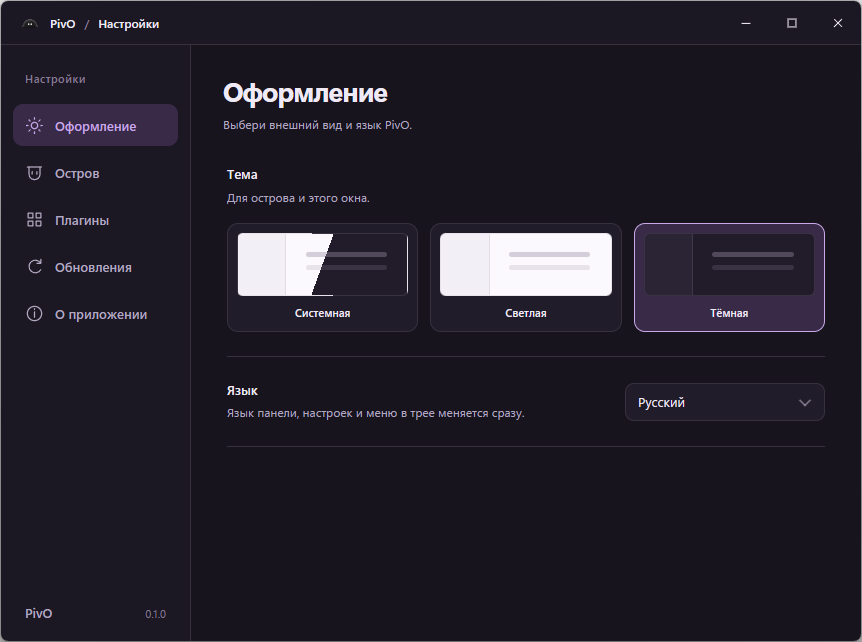
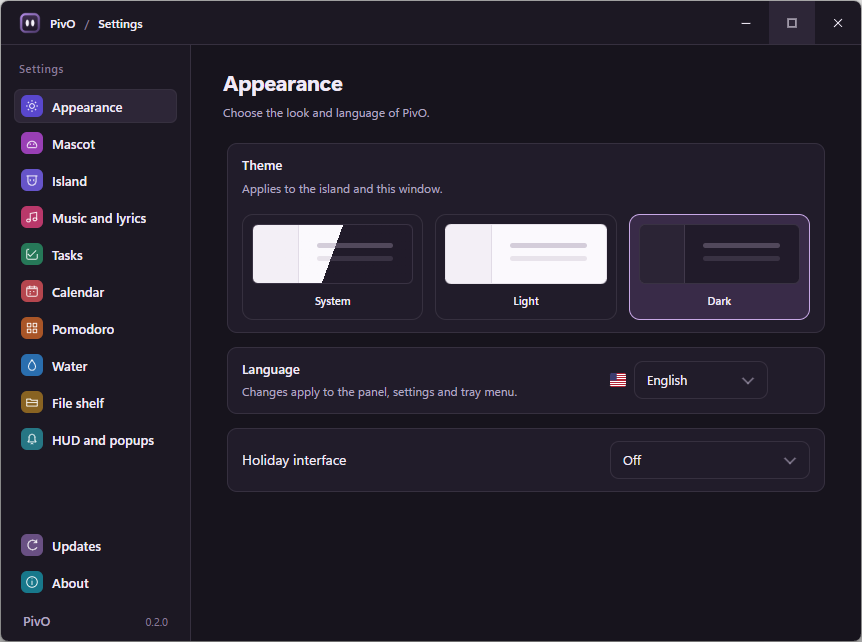
docs: refresh 0.2.0 screenshots and release presentation

diff --git a/README.md b/README.md
@@ -1,42 +1,98 @@
 # PivO
 
-A small companion at the top of your screen.
+A desktop companion that lives at the top of your screen, with its own mascot, music controls and everyday widgets.
 
-PivO is a desktop companion built with Tauri 2, Rust and TypeScript, with its own mascot and visual identity. Windows comes first; other platforms can follow.
+[Download PivO 0.2.0 for Windows x64](https://github.com/RedGry/pivo/releases/download/v0.2.0/PivO_0.2.0_x64-setup.exe) · [What's new](https://github.com/RedGry/pivo/releases/tag/v0.2.0) · [Full changelog](CHANGELOG.md)
 
-[Download PivO v0.2.0 for Windows](https://github.com/RedGry/pivo/releases/download/v0.2.0/PivO_0.2.0_x64-setup.exe) · [Release notes](https://github.com/RedGry/pivo/releases/tag/v0.2.0)
-
-<p align="center">
-  <img src="assets/mascot.png" alt="The original PivO mascot" width="240" />
-</p>
+PivO starts as a compact pair of eyes or a thin Strip. Hover over its deliberate reveal target to open the island, use a widget, then move away to fold it. The companion stays on the selected monitor without reserving desktop space or taking keyboard focus during ordinary interaction. Settings opens as a separate window when requested.
 
 ## Screenshots
 
-Actual Windows application captures, shown in Russian. PivO also includes English.
+Actual PivO 0.2.0 Windows captures, taken through the separate PivO debug MCP. These images show the running application, rather than a mockup. The captures use English and Dark theme. The application supports English and Russian.
 
-**Expanded island** with the original mascot, clock and Pomodoro widget:
+**Expanded island** — the mascot, clock and a built-in widget:
 
-<img src="docs/images/island-expanded.png" alt="Expanded PivO island with mascot, clock and Pomodoro controls" width="560" />
+<img src="docs/images/island-expanded.png" alt="PivO 0.2.0 expanded island with its current mascot, clock and widget navigation" width="880" />
 
-**Compact Strip** keeps the desktop available:
+<details>
+<summary>Compact Eyes and Strip</summary>
 
-<img src="docs/images/island-strip.png" alt="Compact PivO Strip showing the clock and timer progress" width="560" />
+**Compact Eyes** — the companion at rest:
 
-**Settings** opens in a separate window:
+<img src="docs/images/island-eyes.png" alt="PivO 0.2.0 compact Eyes" width="560" />
 
-<img src="docs/images/settings-appearance.png" alt="PivO appearance settings with theme and language selection" width="760" />
+**Compact Strip** — the clock and compact eyes at the screen edge:
+
+<img src="docs/images/island-strip.png" alt="PivO 0.2.0 compact Strip" width="560" />
+
+</details>
+
+**Appearance settings** — themes, language and seasonal presentation:
+
+<img src="docs/images/settings-appearance.png" alt="PivO 0.2.0 Appearance settings with Dark theme and English selected" width="760" />
+
+<details>
+<summary>Mascot customization and Calendar</summary>
+
+**Mascot** — clothing previews, size and gesture controls:
+
+<img src="docs/images/settings-mascot.png" alt="PivO 0.2.0 Mascot settings with clothing previews" width="760" />
+
+**Calendar** — month navigation, holiday icons and country calendars:
+
+<img src="docs/images/settings-calendar.png" alt="PivO 0.2.0 Calendar settings showing November and holiday markers" width="760" />
+
+</details>
 
 Capture details and asset terms are recorded in [image provenance](docs/images/README.md).
 
-## First milestone
+## What's new in 0.2.0
 
-An expandable top panel, our mascot and a clock. Music, a calendar, system stats and AI agent status can follow one step at a time.
+The island now includes seven built-in widgets, a vector mascot with seasonal outfits, and a redesigned Settings window. Music gains Windows player controls and a dedicated lyrics view; personal widgets bring tasks, calendar events, water tracking and file shortcuts into the same panel.
 
-**Status:** the Full HD usability candidate reduces Expanded to 480 x 144 logical pixels, shortens reveal dwell and provides seven built-in widgets. See [validation](docs/VALIDATION.md) for actual checks and runtime limits. The screenshots above show the earlier build.
+| Widget | What it does |
+| --- | --- |
+| Music and lyrics | Shows the current Windows media session, artwork, playback controls and seeking. Displays synchronized or plain lyrics, with local import and configurable LRCLIB lookup. |
+| Tasks | Keeps tasks, deadlines and completion state, with direct island actions, ordering and optional reminders. |
+| Calendar | Shows month and week views, personal events, task dates and configurable holiday calendars. |
+| Pomodoro | Keeps focus and break timers, configurable durations and the progress ring, including a running timer across restarts. |
+| Water | Tracks daily intake, serving size and target, with undo, today's intake log and optional reminders. |
+| File shelf | Keeps shortcuts to selected files, with open, reveal and remove actions. Removing a shortcut preserves the original file. |
+| HUD and popups | Shows supported volume, brightness, input-language, keyboard, power and connectivity readings, with configurable notices. |
+
+Navigate with the page indicators, previous/next controls or the mouse wheel over the expanded content. Choose which widgets are enabled in their Settings pages. See [widget behavior and Windows support](docs/PLUGINS.md) for provider requirements and limitations.
+
+The mascot has size and motion controls, idle expressions, cursor gaze and holiday outfits. The interface supports Dark, Light and System themes, shared English/Russian localization, and a visual display selector. Panel motion is reversible and respects reduced-motion settings.
+
+Read the [0.2.0 release notes](https://github.com/RedGry/pivo/releases/tag/v0.2.0) for the complete feature list. Actual validation results and remaining native-test limits are recorded in [VALIDATION.md](docs/VALIDATION.md).
+
+## Install
+
+1. Download [PivO_0.2.0_x64-setup.exe](https://github.com/RedGry/pivo/releases/download/v0.2.0/PivO_0.2.0_x64-setup.exe).
+2. Run the installer. PivO installs for your Windows user.
+3. Launch PivO and open Settings to choose a monitor, theme, language and widgets. Autostart is available in the tray.
+
+Microsoft Edge WebView2 Runtime is required. The installer handles the normal runtime prerequisite. PivO is currently a Windows x64 prototype; other platforms are not included in this release.
+
+The updater signature protects PivO updates. It is separate from Windows Authenticode signing, so Windows may still show a SmartScreen prompt for the installer.
+
+## Update
+
+Open **Settings → Updates → Check now**, then use the island's update action when a new version is offered. Automatic checks are optional; installing an update always requires a deliberate action. The tray also offers a manual update check.
+
+Portable copies need a first installation with the setup executable before using installed updates. See [update setup and acceptance](docs/UPDATES.md) for signing and release details.
+
+## Desktop behavior
+
+- **Eyes** keeps the compact mascot visible. **Strip** tucks the capsule partly above the screen edge while retaining its compact row. **Expanded** reveals the current widget and controls.
+- **Auto** chooses Eyes when the compact footprint is clear and Strip when an ordinary window overlaps it. Compact overrides are available in Settings.
+- The current edge or eye target reveals the island. Returning through the old expanded body does not reopen it. Outside clicks fold it; interior clicks keep it open.
+- Decorative areas pass pointer input through. The selected physical monitor anchors the panel without changing the desktop work area. A disconnected display choice is preserved and recovered on reconnect.
+- **Ctrl+Alt+P** hides or restores the companion. Hidden and reduced-motion states stop unnecessary gestures.
 
 ## Build
 
-Install Rust stable, Visual Studio Build Tools with C++ tools and the Windows SDK, Node.js 24 and the Microsoft Edge WebView2 Runtime.
+PivO uses Tauri 2, Rust and TypeScript, without a frontend UI framework. Install Rust stable, Visual Studio Build Tools with C++ tools and the Windows SDK, Node.js 24 and Microsoft Edge WebView2 Runtime.
 
 ```powershell
 npm --prefix windows/frontend ci
@@ -44,40 +100,16 @@ npm --prefix windows/frontend run build
 cargo build -p pivo-windows --release --locked
 ```
 
-The executable is written to `target/release/pivo.exe`. For development with frontend reload, run `npm --prefix windows/frontend run desktop:dev`.
+The executable is written to `target/release/pivo.exe`. For frontend reload during development, run `npm --prefix windows/frontend run desktop:dev`.
 
-PivO has three presentations: **Strip**, a 24-pixel compact row for future status content; **Eyes**, the compact mascot; and **Expanded**, the full character and clock. Auto mode shows Eyes when the compact area is unobstructed and Strip when another ordinary window overlaps it. Settings can force either compact presentation.
-
-Hover or click the deliberate edge target in Strip, or the eye cluster in Eyes, to expand. Move the pointer outside the expanded island to fold it after a short grace period. Outside clicks also fold it; interior clicks leave it open. Decorative areas pass clicks through without taking keyboard focus. The revealed header aligns the clock, settings and exit controls. Ctrl+Alt+P hides or restores the companion.
-
-Settings includes Appearance, Island, Updates, About and a dedicated sidebar page for each widget. Choose Dark, Light or System theme, language, compact behavior and display. Dark preserves the original default appearance. Display selection follows the primary monitor by default; a missing saved display falls back to primary and resumes its saved placement when reconnected. Each language is a separate [locale file](locales/README.md), discovered on rebuild; English and Russian are included.
-
-The approved static mascot at `assets/mascot.png` is bundled into the frontend. A portable build does not need a separate image file. See [asset provenance](assets/README.md) for its source and usage terms.
-
-## Built-in widgets
-
-Switch between Music and lyrics, Tasks, Calendar, Pomodoro, Water, File shelf and HUD on the island. Enable and configure each widget in its Settings page. Pomodoro keeps its existing saved timer and duration settings. See [widget behavior and Windows support](docs/PLUGINS.md).
-
-Compact Eyes blink, occasionally look curious and follow the cursor. Strip briefly shows the original mascot every 120–180 seconds. Hidden and reduced-motion states stop those gestures. Reveal uses a deliberate hover target. Leaving Expanded starts a reversible fold; returning to the current target reverses it.
-
-The tray offers Autostart, Settings, About PivO, Check for updates and Exit. Autostart applies to the current Windows user.
-
-## Updates and installers
-
-The Windows installer and signed updates use the official Tauri 2 updater. Update checks are available in Settings and the tray. The panel shows a friendly summary; technical error details stay in Settings. Automatic checks are opt-in, and installation always requires an explicit action. See [updates and release setup](docs/UPDATES.md) for signing keys, GitHub configuration, installer builds and the installed-version upgrade acceptance gate.
+Run the application validation with `pwsh -NoProfile -File scripts/validate.ps1`. For isolated interactive Windows testing, see [the test environment](docs/TEST-ENVIRONMENT.md). Native UI acceptance requires an interactive Windows desktop.
 
 ## Contribute
 
-See [CONTRIBUTING.md](CONTRIBUTING.md), the [roadmap](docs/PLAN.md) and [architecture](docs/ARCHITECTURE.md). Keep the design simple, dependencies small and platform boundaries clear.
+See [CONTRIBUTING.md](CONTRIBUTING.md), the [roadmap](docs/PLAN.md) and [architecture](docs/ARCHITECTURE.md). Active development uses `release/0.2.0`; changes reach protected `main` through reviewed pull requests and the required Windows CI check.
 
 ## License
 
-Code is [MIT licensed](LICENSE). The mascot, artwork, sounds and branding have [separate terms](LICENSE-ASSETS.md).
+Code is [MIT licensed](LICENSE). The mascot, artwork, sounds and branding have [separate terms](LICENSE-ASSETS.md); [asset provenance](assets/README.md) records their sources.
 
 Dependency and Rust library notices are in [THIRD_PARTY_NOTICES.md](THIRD_PARTY_NOTICES.md).
-
-The header ring shows timer progress while Pomodoro is selected. Clock/date formatting follows the selected locale.
-
-For isolated interactive Windows testing, see [the test environment](docs/TEST-ENVIRONMENT.md). Containers cover build and model tests; native UI acceptance requires an interactive Windows desktop.
-
-Automatic island sizing uses the selected monitor's logical height, including Windows DPI: at 100% scale, Expanded is 480 x 144 on 1920 x 1080 and 560 x 168 on 2560 x 1440. Intermediate heights interpolate within these bounds. Rendering and native input use the same scale.

diff --git a/CHANGELOG.md b/CHANGELOG.md
@@ -4,12 +4,52 @@
 
 ## 0.2.0 - 2026-11-04
 
-- Add Music with playback controls, artwork, synchronized lyrics and optional LRCLIB lookup.
-- Add personal widgets for tasks, calendar events and water tracking, plus a file shortcut shelf.
-- Add seasonal mascot outfits, holiday artwork and appearance controls.
-- Refine panel geometry, compact expressions, reversible motion and directional widget transitions.
-- Improve display selection, expanded input handling and Settings presentation.
-- Add reproducible Windows Sandbox testing tools and document native input and motion measurements.
+### What's new
+
+#### Music and lyrics
+
+- Control the current Windows media session from the island: play or pause, skip tracks and seek when the player supports those actions.
+- Show track title, artist, album artwork and an artwork-tinted Music background, with playback bars in the header and compact Strip.
+- Open a wider lyrics column with timeline-following synchronized lyrics, highlighted cues and click-to-seek on timed lines. Plain lyrics remain scrollable.
+- Look up lyrics in LRCLIB by default while Music is open, using track metadata. Disable online lookup in Music Settings to keep lyrics local.
+- Import LRC files or paste lyrics for the current track; local lyrics take priority over online results.
+- Add experimental approximate synchronization for plain lyrics using local process audio capture. It requires a separately installed whisper.cpp CLI and multilingual model; neither is bundled.
+
+#### Seven built-in widgets
+
+- Add dedicated pages for Music and lyrics, Tasks, Calendar, Pomodoro, Water, File shelf and HUD. Enable and configure each widget in Settings.
+- Create, reorder and complete Tasks, set deadlines and snooze durations, and enable due reminders while the companion is visible.
+- Browse Calendar by month or week, choose the first weekday, jump to a date and save personal events alongside task dates.
+- Track daily Water intake with a target and serving size, undo or reset today's entries, and optionally schedule reminders within active hours.
+- Keep file shortcuts in the File shelf using the Windows picker, with Open, Reveal, Remove and clear-on-startup controls. Removing a shortcut preserves its source file.
+- Show HUD readings and configurable notices for volume, keyboard language, Caps Lock, battery, Wi-Fi and supported Bluetooth headsets. Brightness readings require a DDC/CI-capable monitor.
+- Preserve the existing Pomodoro timer and saved focus/break durations. Refine its countdown dial and show active timer progress across widget pages.
+- Switch enabled widgets with arrows, page dots or the mouse wheel. Hovering page dots reveals their widget icons, and transitions slide in the direction of navigation.
+
+#### Mascot, clothing and holidays
+
+- Introduce an animated vector presentation of the original PivO mascot, with separate eyes, paws and clothing, plus light and dark body colors.
+- Add widget-specific props and gestures, reveal waves, pointer reactions and a Music dance during playback. Reduced motion takes priority over mascot animation.
+- Add a dedicated Mascot settings page with live previews, size and motion controls, optional hat and scarf, and separate prop and clothing variants.
+- Choose calendar-driven or fixed winter, love, spring, summer, autumn and Halloween appearance themes. Outfit and interface decoration can be configured independently or switched off.
+- Add occasion outfits, illustrated holiday icons, themed Settings scenery and navigation glyphs, and a width-aware winter garland.
+- Show recurring Russian and international holidays and movable observances. Filter country calendars, add custom country calendars and save recurring dates.
+
+#### Presentation, Settings and native input
+
+- Refine the island's compact and expanded proportions, monitor-aware scaling, mascot placement, artwork tint and transparent rounded outline.
+- Improve elapsed-time reveal and fold motion, preserve continuity during early reversals, and animate lyric width together with content. Idle or hidden expressions stop scheduling frames.
+- Add compact sleep/wake expressions, finite blinks and winks, plus playback and charging indicators where applicable.
+- Reorganize Settings into widget pages and grouped controls, improve narrow and maximized layouts, add a visual display selector and refresh the Windows application icon.
+- Keep controls aligned with the visible island and correct timed-lyric click targets at different display scales. The expanded island receives clicks without taking keyboard focus, while input outside its outline remains available to other applications.
+
+### Install
+
+1. Download [PivO_0.2.0_x64-setup.exe](https://github.com/RedGry/pivo/releases/download/v0.2.0/PivO_0.2.0_x64-setup.exe) and run it for your Windows user. Microsoft Edge WebView2 Runtime is required.
+2. Existing installed copies can use **Settings > Updates > Check now**, followed by the island's update action. Automatic checks remain optional.
+3. Portable copies need a first installation with the setup executable to use installed updates.
+
+Updater signatures use the existing PivO key and are separate from Windows Authenticode signing. See the [release notes](https://github.com/RedGry/pivo/releases/tag/v0.2.0) and [validation record](docs/VALIDATION.md) for acceptance results and limitations.
 
 ## 0.1.0 - 2026-10-30
 

diff --git a/docs/VALIDATION.md b/docs/VALIDATION.md
@@ -265,3 +265,16 @@ For motion acceptance, measure both a full open/close cycle and repeated early r
[1 lines of base64/hex data omitted]
 
 - Installed-version transition from 0.1.0 to 0.2.0, modified-installer rejection, interrupted-download recovery, automatic restart and clean uninstall remain unverified until the new release is published and exercised.
+
+### 2026-11-04: Published 0.2.0 and installed update acceptance
+
+- PR #2 passed both required `windows` checks and merged into protected `main` at `b6db73aacc176a1f489a72334cfa47319901d697`. The immutable `v0.2.0` tag points to that commit. `release/0.2.0` is the default development branch.
+- Windows release run `41881814301` completed successfully and published 0.2.0 at `2026-11-04T18:06:32Z`. Anonymous requests to the production latest endpoint returned version 0.2.0 and the immutable versioned installer URL. The installer, signature and manifest were uploaded completely.
[1 lines of base64/hex data omitted]
+- A disposable guest updated the installed, signed 0.1.0 release to the published 0.2.0 through the native update action. The first attempt failed before signature verification with `error sending request for url` for the installer URL. A read-only request from the same guest then returned HTTP 200 and the expected digest. One native retry installed 0.2.0 and automatically started a new process. No manual installer execution substituted for that update.
+- The guest's default WebView2 loader returned `0x80070002`. The official Microsoft offline runtime installer had a valid Microsoft signature but exited with `0x80040902`, and default discovery remained unavailable. The first automatically restarted process therefore had no WebView child and stayed hidden; a manual launch with the known guest runtime folder displayed the updated interface.
+- To exercise automatic UI restart, the fixture temporarily configured the existing runtime folder in the guest user's environment, verified inheritance by a fresh process, and repeated only the installed transition. Version 0.1.0 PID 1664 became version 0.2.0 PID 11708; pivo-debug confirmed the new process was visible without manual relaunch. This proves automatic restart under the documented guest workaround, not default WebView2 discovery in that Sandbox image.
[1 lines of base64/hex data omitted]
+- Offline feed-check failure and retry passed on installed 0.1.0. A separate synthetic higher-version feed displayed download progress at 3% and 34% in 0.2.0, but its listener ended before the corrupted download completed. A later bounded attempt failed at the feed check. Neither run establishes application-UI signature rejection; temporary guest hosts mappings and certificates were removed.
+- Clean uninstall of the updated 0.2.0 passed: after the NSIS child finished, the executable and per-user uninstall registration were absent and no PivO process remained. The temporary guest user environment value was restored to its original unset state.
+- Evidence is under `.local/release-0.2.0/fresh/results/`: `repeat-timeline.jsonl`, `panel-status.json`, `liveness.json`, `user-runtime-check.json`, `runtime-repair.json`, `download-diagnostic.json`, `uninstall-final.json` and `user-runtime-restored.json`. Current fullscreen, mixed-DPI, actual sleep/resume and native Explorer-drop limits remain as recorded above. Publication and these checks do not establish every Windows desktop configuration.

diff --git a/docs/images/README.md b/docs/images/README.md
@@ -1,13 +1,18 @@
 # README screenshots
 
-These are unmodified, application-only Windows captures from the separate PivO debug MCP on 2026-10-30. They show the current compact interaction and plugin candidate in Russian, including the expanded 560 x 160 island, compact Strip and Appearance settings. Screenshots document appearance; they do not establish acceptance of every native interaction. See [validation](../VALIDATION.md) for actual test coverage.
[1 lines of base64/hex data omitted]
+
+The captures show English and Dark theme in a disposable Windows guest. Expanded uses the built-in Pomodoro with its default 25-minute focus session. Settings shows the current Appearance, Mascot and Calendar pages. Window captures retain their transparent canvas padding.
 
 | Published file | Original capture |
 | --- | --- |
-| `island-expanded.png` | `native-gear-after-main.png` |
-| `island-strip.png` | `native-gear-after-strip.png` |
-| `settings-appearance.png` | `native-settings-default-appearance.png` |
+| `island-expanded.png` | `.local/release-0.2.0/readme-captures-dark/expanded-pomodoro.png` |
+| `island-strip.png` | `.local/release-0.2.0/readme-captures-dark/compact-strip.png` |
+| `island-eyes.png` | `.local/release-0.2.0/readme-captures-dark/compact-eyes.png` |
+| `settings-appearance.png` | `.local/release-0.2.0/readme-captures-dark/settings-appearance.png` |
+| `settings-mascot.png` | `.local/release-0.2.0/readme-captures-dark/settings-mascot.png` |
+| `settings-calendar.png` | `.local/release-0.2.0/readme-captures-dark/settings-calendar.png` |
 
-Each image was inspected before inclusion. They contain only PivO's own interface, with no desktop, unrelated windows, account information or secrets.
+Each image was inspected before inclusion. The images contain PivO's own interface and default or public calendar data. Screenshots document appearance; see [validation](../VALIDATION.md) for actual interaction checks and test-environment limits.
 
-The README mascot uses the approved original `assets/mascot.png`. Ownership and provenance are recorded in [assets/README.md](../../assets/README.md). Artwork and screenshots containing the mascot remain subject to [LICENSE-ASSETS.md](../../LICENSE-ASSETS.md); the code's MIT license does not grant separate mascot or branding rights.
+The mascot is the current vector presentation of the approved PivO character. Ownership and provenance are recorded in [assets/README.md](../../assets/README.md). Artwork and screenshots containing the mascot remain subject to [LICENSE-ASSETS.md](../../LICENSE-ASSETS.md); the code's MIT license does not grant separate mascot or branding rights.

diff --git a/docs/UPDATES.md b/docs/UPDATES.md
@@ -32,6 +32,17 @@ The updater signature confirms that an update was signed by PivO's key. It is se
 6. The workflow publishes the complete draft as the latest release only after all checks, signed packaging and asset uploads succeed. A failed build does not publish a release.
 7. Verify the published installer in a disposable Windows account or VM. Publishing makes its manifest available at the app's update endpoint; it does not establish the installed-version upgrade acceptance below.
 
+### Release presentation
+
+Before tagging, update the public presentation alongside the binaries:
+
+- Refresh README download links, feature descriptions and screenshots from the version being released. Remove obsolete milestone text and record the capture version, date and provenance in `docs/images/README.md`.
+- Write **What's new** and **Install** sections. Group accumulated changes by user-facing feature, explain useful behavior and preserve important compatibility or dependency requirements. Do not reduce a large release to a few generic category bullets.
+- In `CHANGELOG.md`, keep the version heading at level two and use level-three section headings so the release extractor retains the complete entry. Installation instructions must cover the Windows x64 setup file, the existing installed-update path and first installation for portable copies.
+- Check the rendered README images and release description before publication. Separate verified behavior from known limits, and link the validation record where appropriate.
+
+Release-description prose and repository documentation may be corrected after publication. Published tags, installers, signatures and updater manifests remain immutable; changing the application requires a new version.
+
 The manifest points to the immutable versioned installer URL. Keep published installer and signature files unchanged. Rebuilding a version and replacing its files can invalidate the signature or mix files downloaded by clients; publish a new version instead. This workflow intentionally does not replace an existing release when rerun: inspect the failed run and existing draft before retrying.
 
 Before the first published release, the endpoint may return HTTP 404; that is an unavailable update feed, not evidence that PivO is up to date. The feed must remain publicly downloadable without a GitHub login.

diff --git a/docs/RETROSPECTIVES.md b/docs/RETROSPECTIVES.md
@@ -235,3 +235,11 @@ The later progress requirement binds the ring to real active-plugin timer data. 
 - Cause: the viewport width and the frontend state could update on different frames. The outgoing card also inherited the new widget's layout rules.
 - Improvement: pin the island position to the client origin and scope the card layout to the widget itself. Document the intermediate-frame acceptance check in DESIGN.md.
 - Verification: Windows validation passed. The runtime probe navigated six widget tabs with a fixed window origin and restored Music. Lyrics was closed in the captures.
+
+## 2026-11-04: Release presentation and current screenshots
+
+- Correction: the 0.2.0 release retained outdated README screenshots and milestone text, and six broad release bullets hid the scope of the accumulated changes. The user requested detailed What's new and Install sections and Dark-theme README captures.
+- Cause: the release preparation checklist covered versions, changelog presence, signing and validation, but did not require a review of the README images or a complete user-facing release narrative.
+- Improvement: add a Release presentation checklist to `docs/UPDATES.md`: refresh version-matched README captures and their provenance, describe accumulated features by useful behavior, and include installation/update instructions. Published release prose can be corrected without changing immutable tags or assets.
+- Result: rewrite README for the released feature set, replace its six captures with actual published 0.2.0 Dark/English images, and expand the changelog and release description to 25 substantive feature bullets with installation and validation sections.
+- Verification: all six Dark captures were visually inspected and matched the original MCP capture hashes. README local targets, release-note section boundaries, the three release-metadata tests and `git diff --check` passed. Application gates were not rerun for documentation-only changes.
